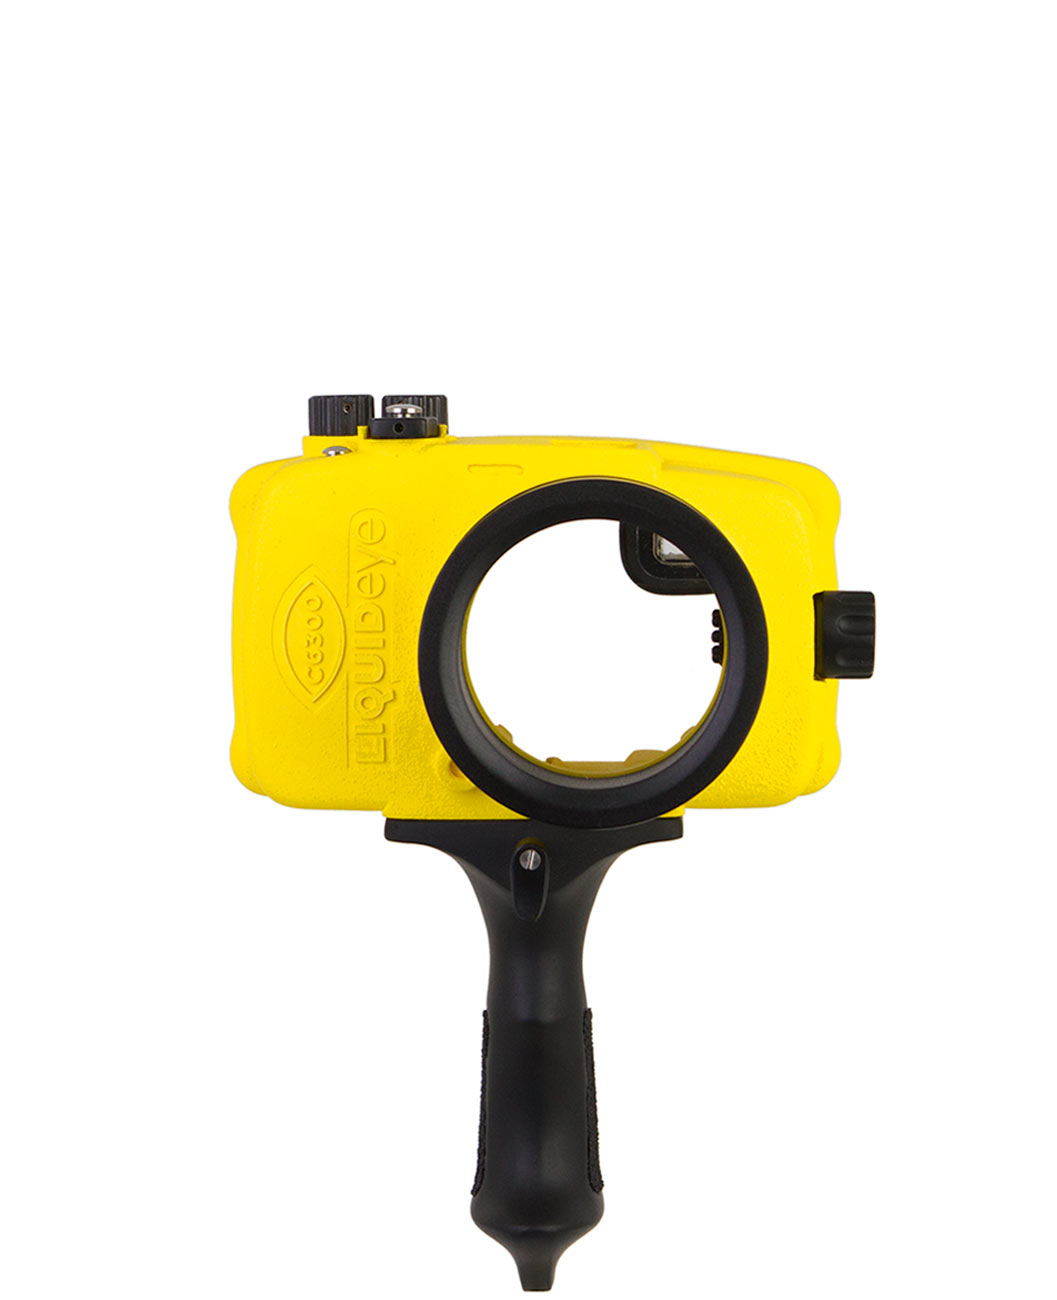
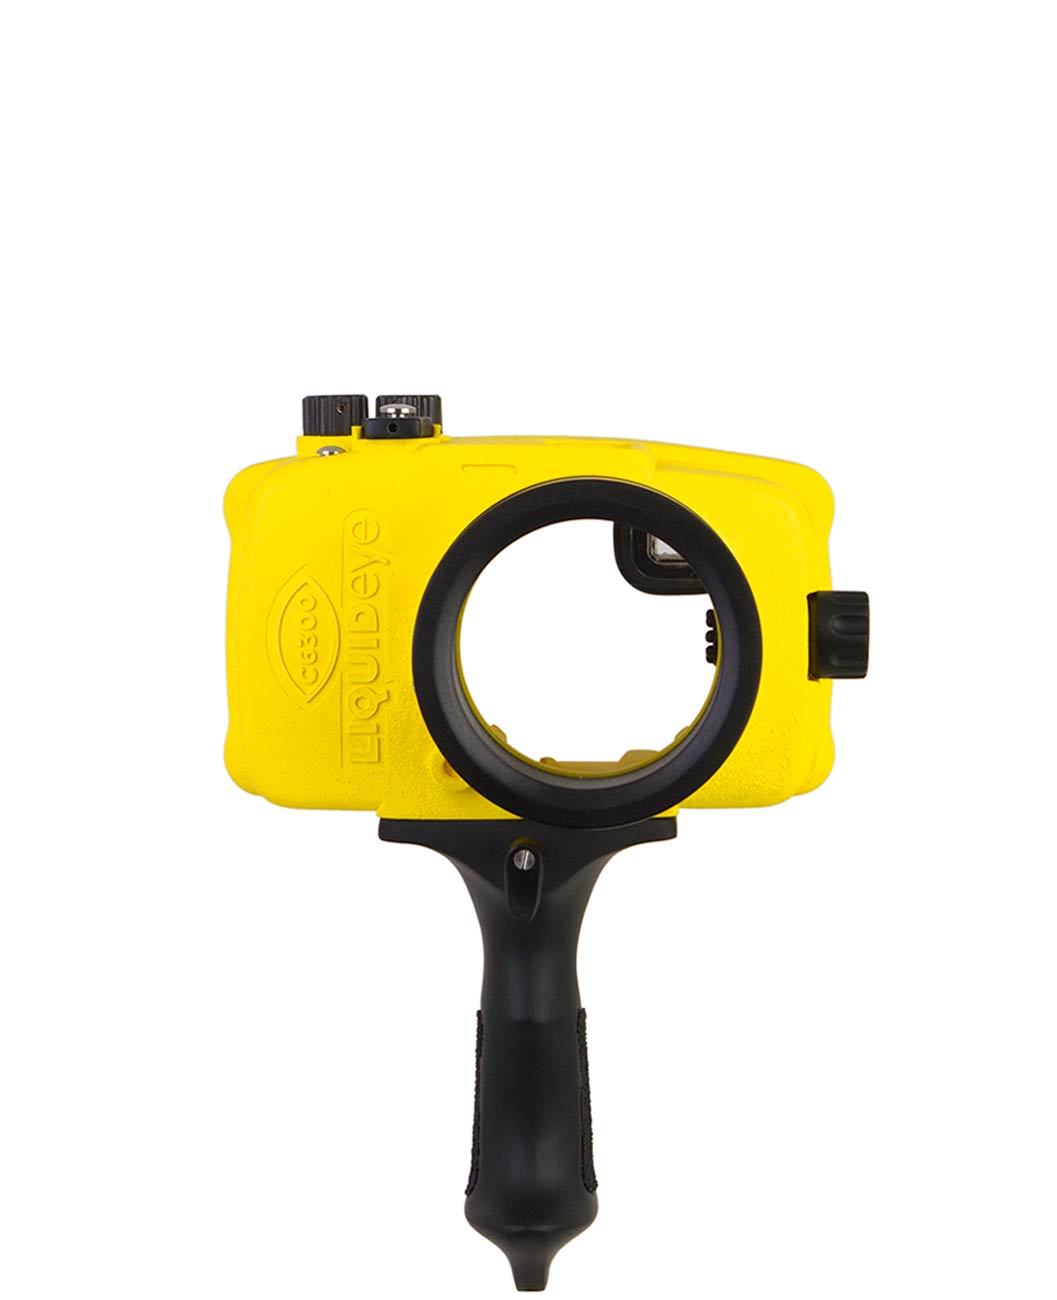
4 home housings same ratio now...

diff --git a/_layouts/home.html b/_layouts/home.html
@@ -64,7 +64,7 @@
             <div class="thumb">
               <div class="thumb_images">
 
-                <img src="{{site.baseurl}}/assets/p/housings/c6300sp/01.jpg" alt="Liquid Eye C6300SP housing to shoot video and stills with Sony mirrorless camera">
+                <img src="{{site.baseurl}}/assets/p/housings/c6300sp/t.jpg" alt="Liquid Eye C6300SP housing to shoot video and stills with Sony mirrorless camera">
 
                 {% include jpg_cut_sonya6000.html %}
 
@@ -92,7 +92,7 @@
             <div class="thumb">
               <div class="thumb_images">
 
-                <img src="{{site.baseurl}}/assets/p/housings/c2050/01.jpg" alt="Liquid Eye C2050 housing comes in Standard and Advanced version">
+                <img src="{{site.baseurl}}/assets/p/housings/c2050/t.jpg" alt="Liquid Eye C2050 housing comes in Standard and Advanced version">
 
                 {% include jpg_cut_canon600d.html %}
 
@@ -122,7 +122,7 @@
             <div class="thumb">
               <div class="thumb_images">
 
-                <img src="{{site.baseurl}}/assets/p/housings/c2100-canon-5d-mk-iv/01.jpg" alt="Liquid Eye C2100 housing with Andanced backplate for Canon 5D mk IV">
+                <img src="{{site.baseurl}}/assets/p/housings/c2100-canon-5d-mk-iv/t.jpg" alt="Liquid Eye C2100 housing with Andanced backplate for Canon 5D mk IV">
 
                 {% include jpg_cut_nikond800.html %}
 
@@ -152,7 +152,7 @@
             <div class="thumb">
               <div class="thumb_images">
 
-                <img src="{{site.baseurl}}/assets/p/housings/c1794xii-canon-1dx-mk-ii/01.jpg" alt="Liquid Eye C1794XII Expert housing with backplate for Canon 1DX mk II">
+                <img src="{{site.baseurl}}/assets/p/housings/c1794xii-canon-1dx-mk-ii/t.jpg" alt="Liquid Eye C1794XII Expert housing with backplate for Canon 1DX mk II">
 
                 {% include jpg_cut_canon1dxmk2.html %}
 

diff --git a/_sass/_svg.scss b/_sass/_svg.scss
@@ -22,18 +22,18 @@
   img {
     padding-bottom: $vertical-space-small;
   }
-  .sony & {
-    img {
-      padding-top: $vertical-space;
-      min-width: 80%;
-      max-width: 80%;
-    }
-  }
+  // .sony & {
+  //   img {
+  //     padding-top: $vertical-space;
+  //     min-width: 80%;
+  //     max-width: 80%;
+  //   }
+  // }
   position: relative;
   svg {
     position: absolute;
     width: 30%;
-    bottom: 4%;
+    bottom: 5%;
     right: 10%;
   }
 }
@@ -41,10 +41,10 @@
 .thumb_images {
   .canon7dmk2,
   .nikond5200 {
-    bottom: 25%;
+    bottom: 24%;
   }
   .sonya6000 {
-    width: 35%;
+    width: 29%;
   }
 
 }
